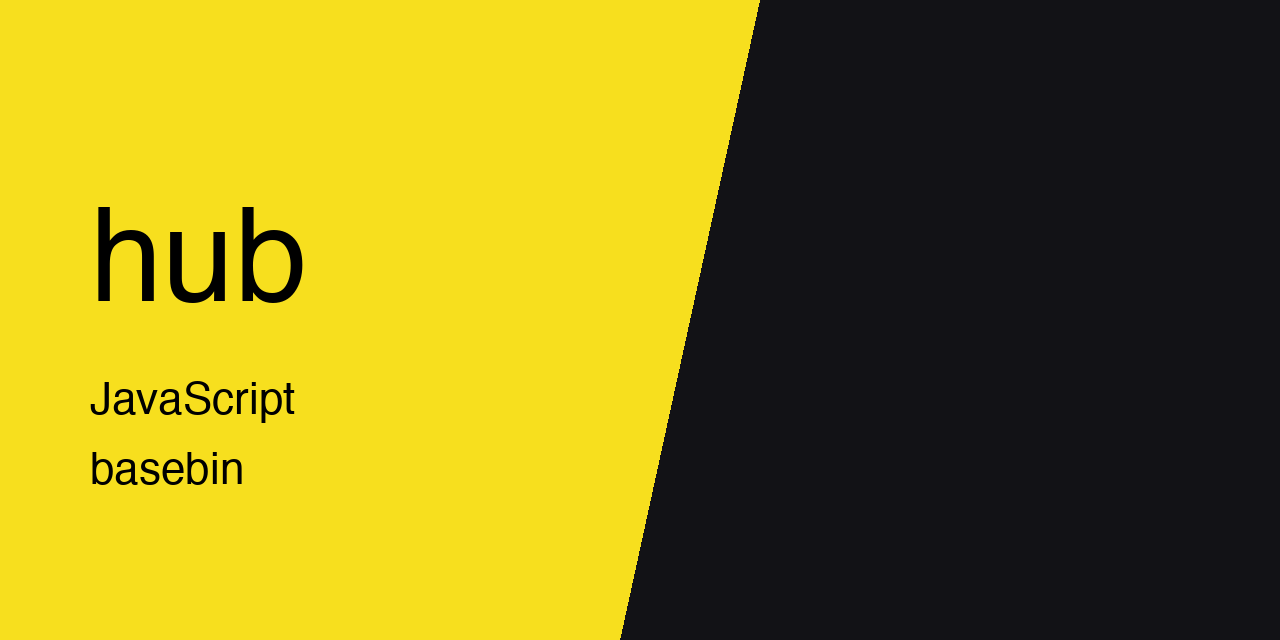
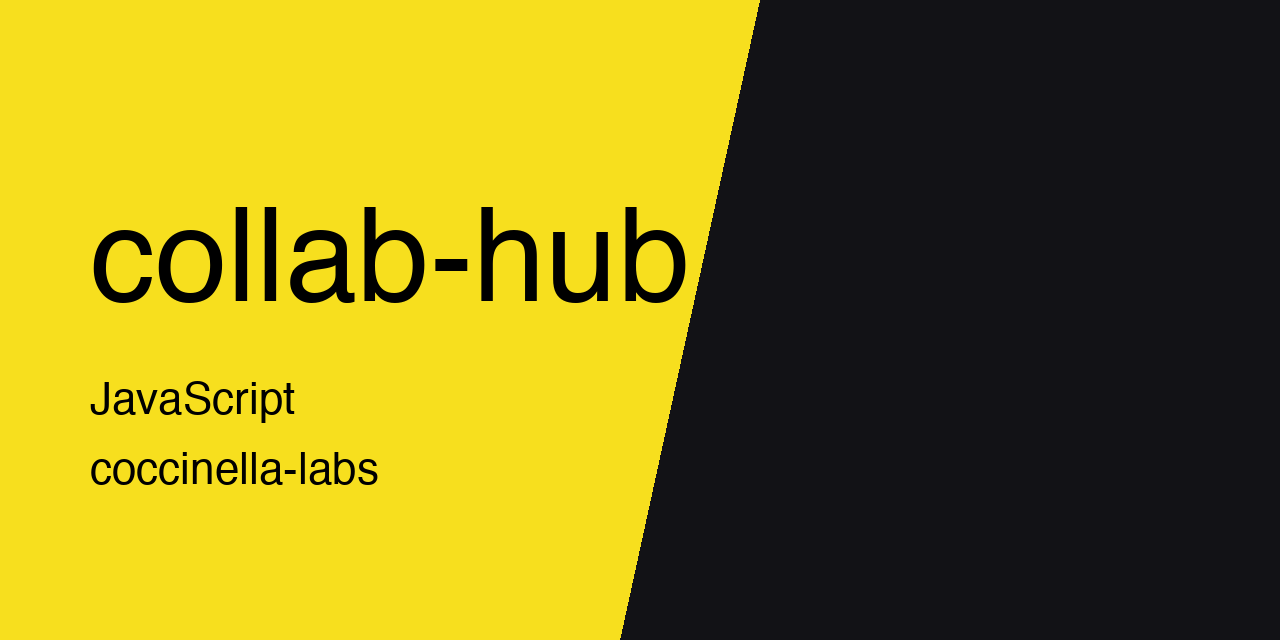
[docs] move thumbnail to coccinella-labs

Changed region(s): [[0.0625, 0.3125, 0.5625, 0.4688], [0.0625, 0.7188, 0.3125, 0.7812]]

diff --git a/README.md b/README.md
@@ -1,4 +1,8 @@
 <p align="center">
+  <img src="https://raw.githubusercontent.com/Coccinella-Labs/collab-hub/main/.github/assets/thumbnail.png" alt="collab-hub" width="100%">
+</p>
+
+<p align="center">
   <img src="https://raw.githubusercontent.com/coccinella-labs/collab-hub/main/.github/assets/thumbnail.png" alt="collab-hub" width="100%">
 </p>
 
